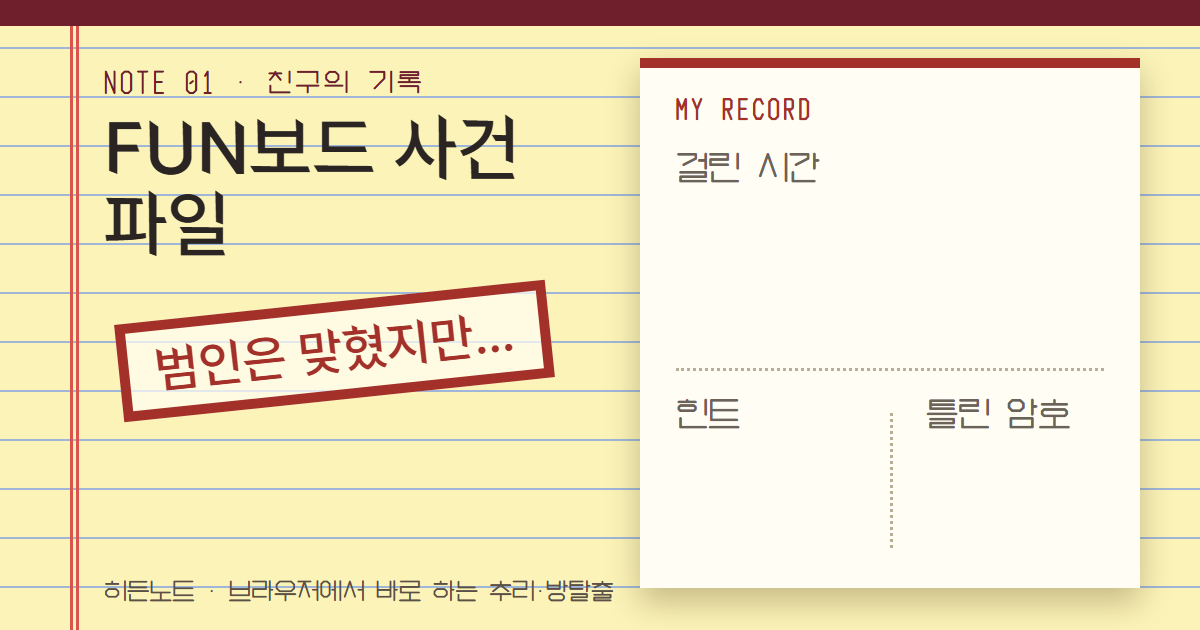
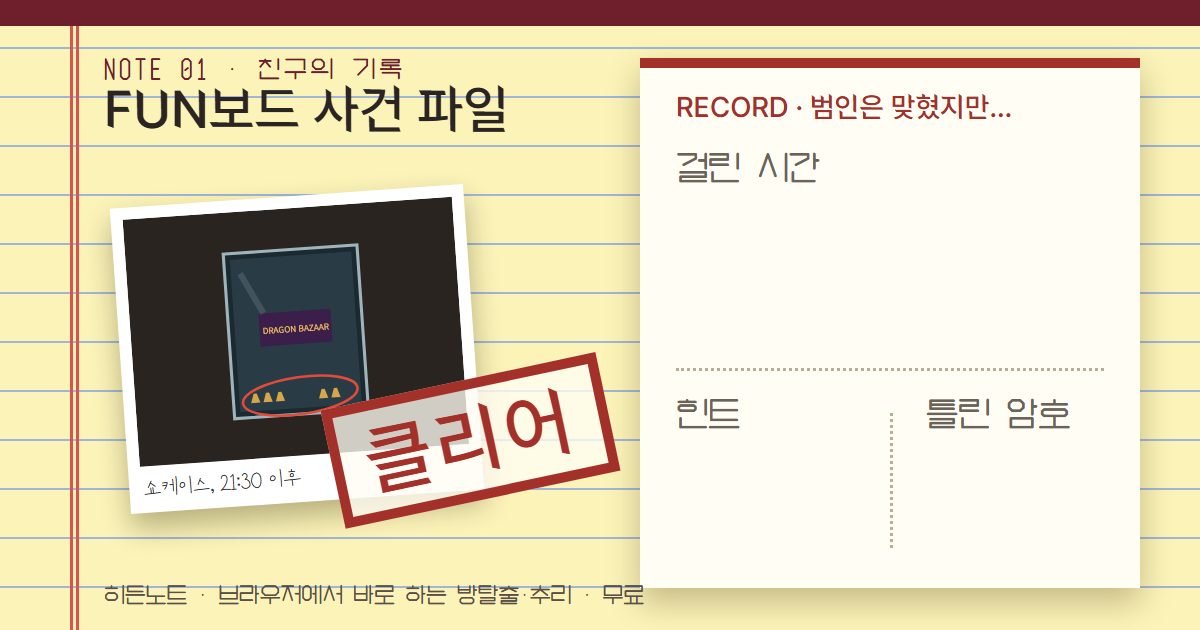
Record share: clear stamp, polaroid, and clear wording
Claude-Session: https://claude.ai/code/session_014xZr56KSBxKkeAwG41ZnWC

Changed region(s): [[0.0617, 0.0905, 0.5242, 0.8444], [0.0925, 0.9048, 0.555, 0.9651], [0.555, 0.1508, 0.8325, 0.2111]]

diff --git a/og/rec.html b/og/rec.html
@@ -1,25 +1,38 @@
 <!DOCTYPE html><html><head><meta charset="utf-8"><link rel="stylesheet" href="../fonts/fonts.css">
 <link rel="stylesheet" href="https://cdn.jsdelivr.net/gh/hada0127/hada-type-levelup@v2026.10.21/css/levelup-subset.css">
-<!-- 기록 공유 미리보기 바탕. api/og.js가 기록 카드 빈칸에 숫자를 찍는다. 칸 위치를 바꾸면 api/og.js SLOT도 같이 -->
+<!-- 기록 공유 미리보기 바탕 ?n=06&s=등급&st=도장. 왼쪽 폴라로이드는 메인 index.html 카드에서 가져온다.
+     api/og.js(drawRecord)가 오른쪽 기록 카드 빈칸에 숫자를 찍는다. 칸 위치를 바꾸면 drawRecord도 같이 -->
 <style>
 html,body{margin:0;width:1200px;height:630px;overflow:hidden}
 .c{position:relative;width:1200px;height:630px;background:repeating-linear-gradient(#fbf3b8 0 47px,#9fb6d8 47px 49px);background-color:#fbf3b8;font-family:'Kkakdugi Drafting',monospace;color:#2a2422}
 .c:before{content:"";position:absolute;left:70px;top:0;bottom:0;width:3px;background:#d9534f;box-shadow:6px 0 0 #d9534f}
 .c:after{content:"";position:absolute;left:0;right:0;top:0;height:26px;background:#6e1f2b}
-.l{position:absolute;left:104px;top:64px;width:500px;display:flex;flex-direction:column;align-items:flex-start}
-.k{font-size:26px;letter-spacing:4px;color:#6e1f2b}
-h1{margin:10px 0 0;word-break:keep-all;font-family:LevelUp,serif;font-weight:400;font-size:var(--hs,92px);line-height:1.05}
-.s{margin:40px 0 0 14px;border:10px solid #a3312a;color:#a3312a;font-family:LevelUp,serif;font-size:var(--ss,62px);padding:8px 26px;transform:rotate(-6deg);background:rgba(255,253,244,.7);white-space:nowrap}
-.f{position:absolute;left:104px;bottom:22px;font-size:24px;color:#5a5046}
+.k{position:absolute;left:104px;top:52px;font-size:24px;letter-spacing:4px;color:#6e1f2b}
+h1{position:absolute;left:104px;top:84px;margin:0;font-family:LevelUp,serif;font-weight:400;font-size:var(--hs,74px);line-height:1;white-space:nowrap}
+.pol{position:absolute;left:120px;top:196px;width:330px;background:#fff;padding:12px 12px 46px;transform:rotate(-4deg);box-shadow:0 14px 28px rgba(40,30,0,.32)}
+.pol svg{display:block;width:100%;height:auto}
+.pol .cap{position:absolute;left:14px;right:10px;bottom:10px;font-family:HEEJOY,cursive;font-size:26px;color:#333;white-space:nowrap;overflow:hidden}
+.st{position:absolute;left:330px;top:380px;border:10px solid #a3312a;color:#a3312a;font-family:LevelUp,serif;font-size:var(--ss,76px);padding:4px 24px;transform:rotate(-12deg);background:rgba(255,253,244,.78);white-space:nowrap;letter-spacing:4px}
+.f{position:absolute;left:104px;bottom:20px;font-size:22px;color:#5a5046}
 .p{position:absolute;left:640px;top:58px;width:500px;height:520px;background:#fffdf4;box-shadow:0 14px 30px rgba(60,40,0,.28);border-top:10px solid #a3312a}
-.p h2{position:absolute;left:36px;top:24px;margin:0;font-size:24px;letter-spacing:4px;color:#a3312a;font-weight:700}
+.p h2{position:absolute;left:36px;top:22px;margin:0;font-size:28px;color:#a3312a;font-weight:700;font-family:LevelUp,serif;font-weight:400}
 .p .lb{position:absolute;font-size:34px;color:#6b6358}
 .p hr{position:absolute;left:36px;right:36px;margin:0;border:0;border-top:3px dotted #b8ad95}
 .p .v{position:absolute;left:250px;top:345px;bottom:40px;border-left:3px dotted #b8ad95}
 </style></head><body><div class="c">
-<div class="l"><div class="k" id="k"></div><h1 id="h"></h1><div class="s" id="s"></div></div>
-<div class="p"><h2>MY RECORD</h2><div class="lb" style="left:36px;top:76px">걸린 시간</div><hr style="top:300px"><div class="lb" style="left:36px;top:322px">힌트</div><div class="lb" style="left:286px;top:322px" id="wl">틀린 암호</div><div class="v"></div></div>
-<div class="f">히든노트 · 브라우저에서 바로 하는 추리·방탈출</div></div>
-<script>const q=new URLSearchParams(location.search);k.textContent=q.get('k');h.textContent=q.get('h');s.textContent=q.get('s');
-const hl=[...q.get('h')].length,sl=[...q.get('s')].length;
-document.documentElement.style.setProperty('--hs',hl>7?'72px':'92px');document.documentElement.style.setProperty('--ss',sl>7?'50px':sl>5?'60px':'72px')</script></body></html>
+<div class="k" id="k"></div><h1 id="h"></h1><div class="pol" id="pol"></div><div class="st" id="st"></div>
+<div class="p"><h2 id="g"></h2><div class="lb" style="left:36px;top:76px">걸린 시간</div><hr style="top:300px"><div class="lb" style="left:36px;top:322px">힌트</div><div class="lb" style="left:286px;top:322px">틀린 암호</div><div class="v"></div></div>
+<div class="f">히든노트 · 브라우저에서 바로 하는 방탈출·추리 · 무료</div></div>
+<script>
+(async()=>{const q=new URLSearchParams(location.search),n=q.get('n');
+  const doc=new DOMParser().parseFromString(await (await fetch('../index.html')).text(),'text/html');
+  const a=doc.querySelector(`a.note[href="notes/${n}/"]`);
+  const h2=a.querySelector('h2').cloneNode(true);h2.querySelectorAll('br').forEach(b=>b.replaceWith(' '));
+  const title=h2.textContent.replace(/\s+/g,' ').trim();
+  k.textContent=`NOTE ${n} · 친구의 기록`;h.textContent=title;
+  const L=[...title].length;document.documentElement.style.setProperty('--hs',L>8?'52px':L>5?'64px':'74px');
+  const ph=a.querySelector('.photo');ph.querySelectorAll('svg.clip').forEach(x=>x.remove());pol.innerHTML=ph.innerHTML;
+  g.textContent=`RECORD · ${q.get('s')}`;
+  st.textContent=q.get('st');if([...q.get('st')].length>3)document.documentElement.style.setProperty('--ss','60px');
+  document.body.dataset.ready=1})();
+</script></body></html>

diff --git a/share.js b/share.js
@@ -81,7 +81,7 @@
 .hnfr button{font:inherit;font-weight:700;cursor:pointer;width:100%;border:2px solid #2a2422;background:#2a2422;color:#fffdf4;border-radius:3px;padding:10px}`;
     document.head.appendChild(css);
     const o=document.createElement('div');o.className='hnfr';o.setAttribute('role','dialog');o.setAttribute('aria-label',EN?'Friend record':'친구 기록');
-    o.innerHTML=`<div class="c"><p class="who">${EN?`A friend's record · Hidden Note ${NUM} "${esc(TITLE)}"`:`친구의 기록 · 히든노트 ${NUM} 「${esc(TITLE)}」`}</p><div class="st">${esc(r.slice(0,20))}</div>
+    o.innerHTML=`<div class="c"><p class="who">${EN?`A friend's record · Hidden Note ${NUM} "${esc(TITLE)}"`:`친구의 기록 · 히든노트 ${NUM} 「${esc(TITLE)}」`}</p><p style="margin:0;font-size:22px;font-weight:700">${r==='미해결'?(EN?'Not solved yet':'아직 못 풀었대요'):(EN?'Cleared!':'클리어했대요!')}</p><div class="st">${esc(r.slice(0,20))}</div>
       <dl>${rows.map(([a,b])=>`<div><dt>${a}</dt><dd>${b}</dd></div>`).join('')}</dl><button type="button">${EN?'Try it yourself':'나도 도전하기'}</button></div>`;
     const close=()=>{o.remove();try{const u=new URL(location.href);['r','t','h','w'].forEach(k=>u.searchParams.delete(k));history.replaceState(null,'',u)}catch{}};
     o.querySelector('button').onclick=close;o.onclick=e=>{if(e.target===o)close()};

diff --git a/api/r.js b/api/r.js
@@ -19,10 +19,11 @@ module.exports=(req,res)=>{
   let gi=int(q.get('g'));if(!(gi>=0&&gi<note.g.length))gi=note.g.indexOf(q.get('r')||'');
   const grade=gi>=0?note.g[gi]:'',t=int(q.get('t')),h=int(q.get('h')),w=int(q.get('w')),en=q.get('lang')==='en';
   const stat=new URLSearchParams();[['t',t],['h',h],['w',w]].forEach(([k,v])=>{if(v>=0)stat.set(k,v)});
-  const img=`${BASE}/api/og?n=${n}&g=${gi>=0?gi:0}&${stat}`;
+  const img=`${BASE}/api/og?n=${n}&g=${gi>=0?gi:0}&${stat}&v=3`;
   const p=new URLSearchParams();if(en)p.set('lang','en');if(grade)p.set('r',grade);stat.forEach((v,k)=>p.set(k,v));
   const to=`${BASE}/notes/${n}/?${p}`;
-  const title=`「${note.t}」 ${grade||'기록'}`;
+  const clear=!(n==='01'&&gi===3); // 01 미해결만 클리어 아님
+  const title=`「${note.t}」 ${clear?'클리어!':'도전 기록'}${grade?' · '+grade:''}`;
   const clock=s=>s>=3600?`${Math.floor(s/3600)}:${String(Math.floor(s/60)%60).padStart(2,'0')}:${String(s%60).padStart(2,'0')}`:`${Math.floor(s/60)}:${String(s%60).padStart(2,'0')}`;
   const desc=[t>=0&&clock(t),h>=0&&`힌트 ${h}개`].filter(Boolean).join(' · ')+' — 너도 해 볼래?';
   res.statusCode=200;
